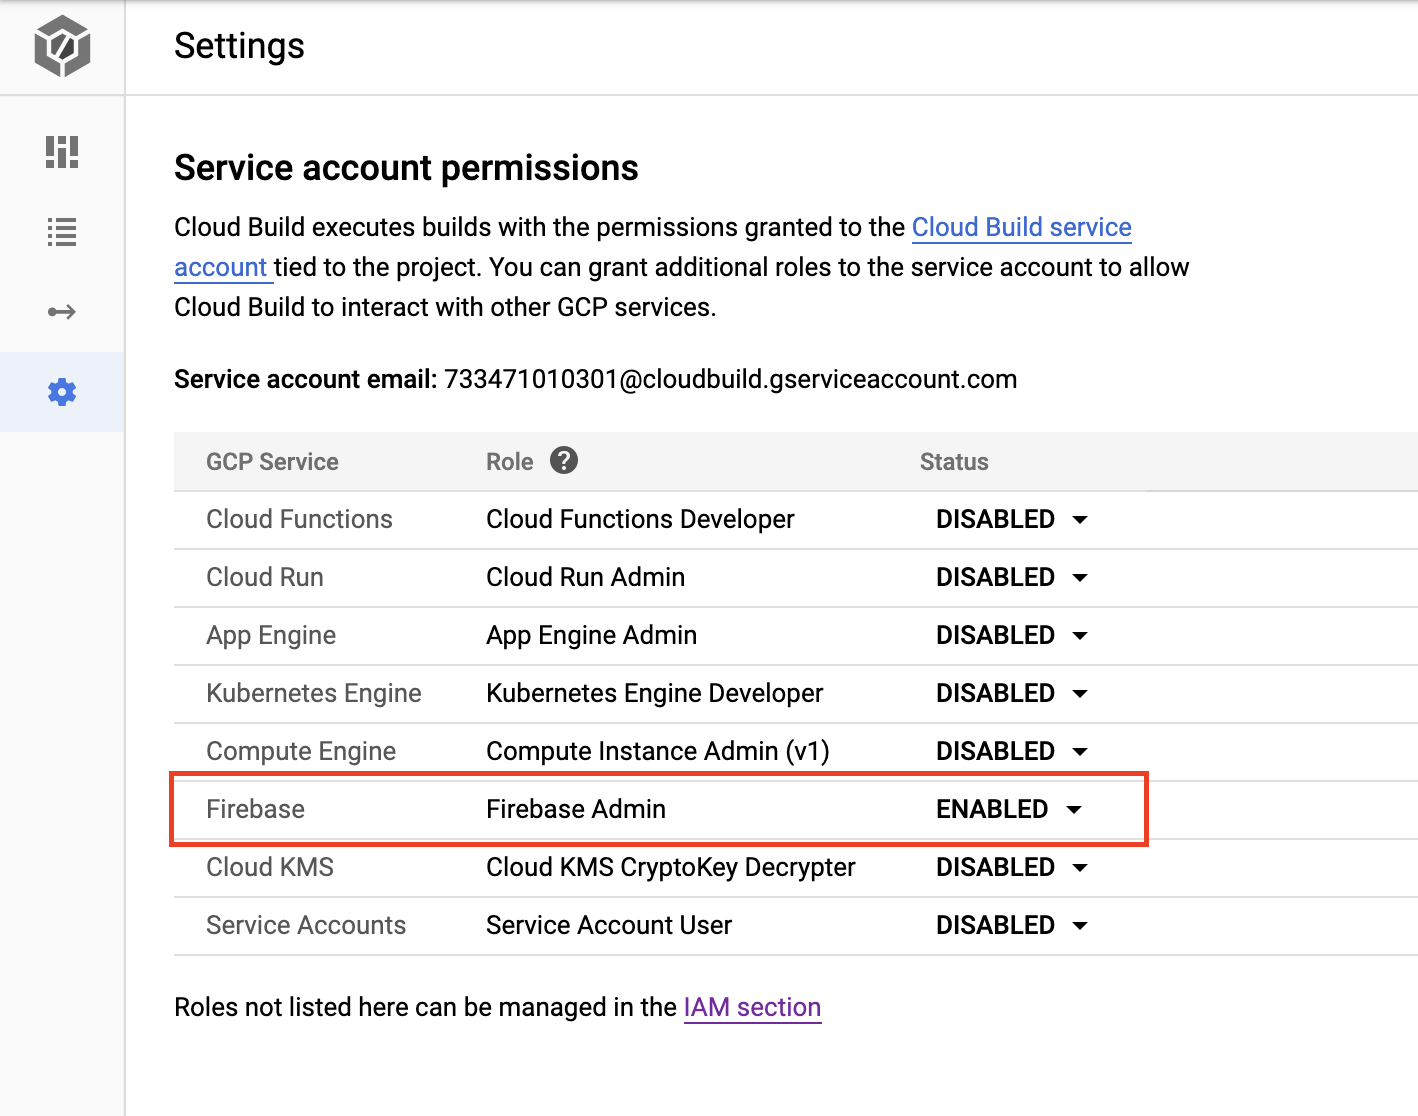
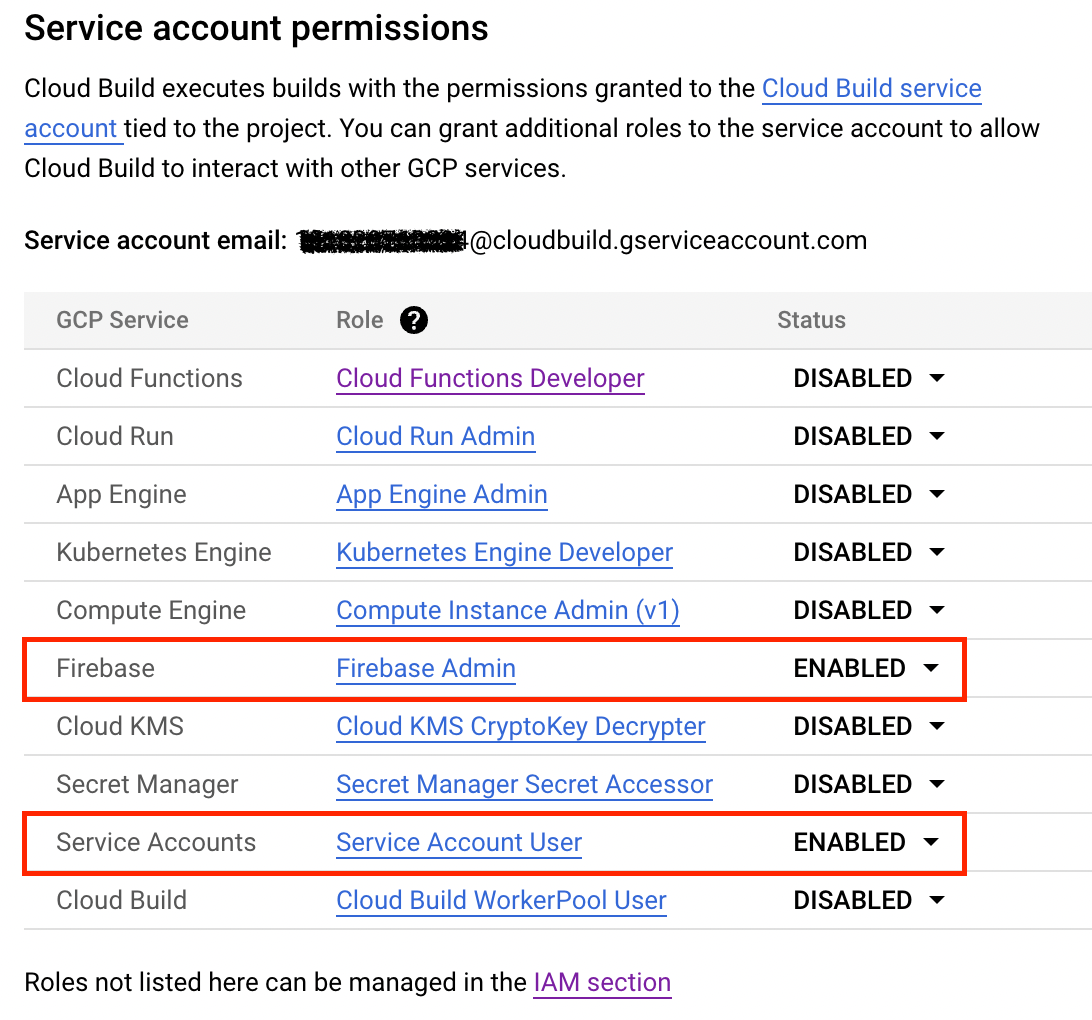
Update setup documentation for Firebase build image
While trying to determine why cloud function that I was working with in
the build were not being deployed I found an open issue.
https://github.com/firebase/firebase-tools/issues/4757

This change is to update the documentation to reflect the need for
not just the Firebase Admin role in the builds, but also the
Service Accounts role.

Thanks to @akauppi for discovering the issue. It was the same issue
I had spent multiple hours trying to figure out.

Changed region(s): [[0.0, 0.0, 0.9652, 0.9118], [0.0311, 0.9422, 0.6227, 0.9725], [0.6538, 0.3951, 0.7161, 0.4255]]

diff --git a/firebase/README.md b/firebase/README.md
@@ -27,7 +27,7 @@ Ensure you have the following APIs enabled
 **Add permission to the cloudbuilder**
 
 - Open Cloud Build service account settings
-- Give the Cloud Build service account the **Firebase Admin** role:
+- Give the Cloud Build service account the **Firebase Admin** and **Service Accounts** roles:
 
 ![service account settings](docs/service-account.png)
 
